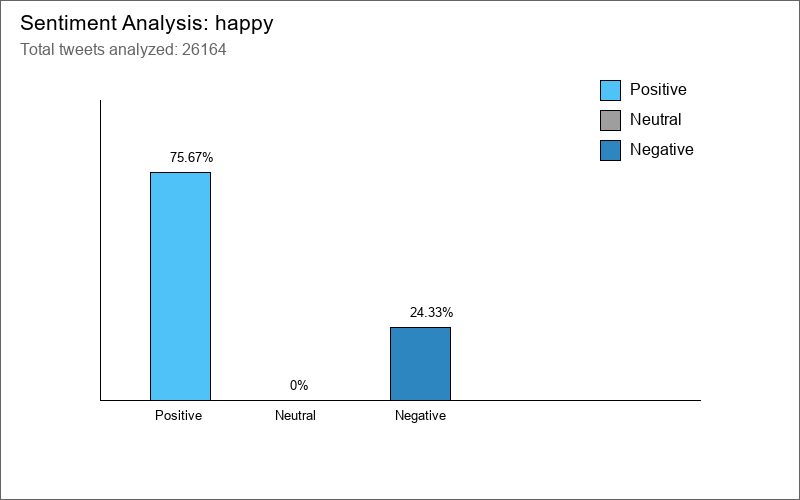
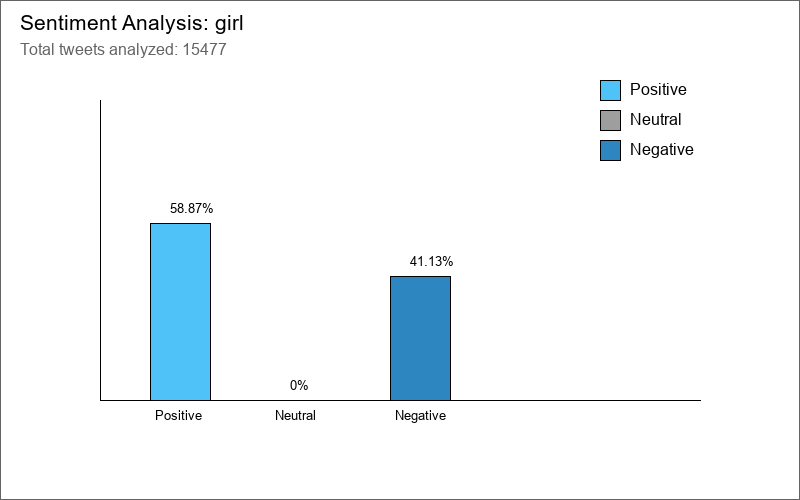
Initial commit: Application d'analyse de sentiments Twitter
- Interface Python Tkinter
- Site PHP de visualisation
- Génération de graphiques
- Système de feedback
- Traduction automatique
- Export PDF des résultats

Changed region(s): [[0.4688, 0.51, 0.5625, 0.66], [0.1875, 0.3, 0.2812, 0.45], [0.2188, 0.03, 0.3438, 0.12]]

diff --git a/site_php/generate_graph.php b/site_php/generate_graph.php
@@ -1,18 +1,18 @@
 <?php
 function generateGraph($type, $data) {
     // Chemin de sortie
-   $outputDir = __DIR__ . '/graphe/';
+    $outputDir = __DIR__ . '/../graphe/';
 
-   // Crée le dossier s'il n'existe pas (avec droits d'écriture)
+    // Crée le dossier s'il n'existe pas (avec droits d'écriture)
     if (!is_dir($outputDir)) {
-     mkdir($outputDir, 0755, true); // 0755 pour éviter les problèmes de sécurité
+        mkdir($outputDir, 0755, true);
     }
 
     $outputFile = $outputDir . "graphe_" . $type . ".png";
     
     // Dimensions
     $width = 800;
-    $height =500;
+    $height = 500;
     
     // Création de l'image
     $image = imagecreatetruecolor($width, $height);
@@ -72,13 +72,13 @@ function generateGraph($type, $data) {
                 imageline($image, 100, $baseY, 700, $baseY, $black); // Axe X
                 imageline($image, 100, $baseY, 100, 100, $black);    // Axe Y
                 
-                // Barres
+                // Barres - CORRECTION : conversion en entiers
                 foreach (array_values($values) as $index => $value) {
                     $barHeight = ($value / 100) * $maxHeight;
-                    $x1 = $startX + ($index * 120); // Espacement réduit entre barres
-                    $y1 = $baseY - $barHeight;
-                    $x2 = $x1 + $barWidth;
-                    $y2 = $baseY;
+                    $x1 = (int)($startX + ($index * 120)); // Espacement réduit entre barres
+                    $y1 = (int)($baseY - $barHeight);      // CONVERSION EN ENTIER
+                    $x2 = (int)($x1 + $barWidth);
+                    $y2 = (int)$baseY;                     // CONVERSION EN ENTIER
                     
                     // Barre simple sans effet d'ombre
                     imagefilledrectangle($image, $x1, $y1, $x2, $y2, $barColors[$index]);
@@ -88,12 +88,15 @@ function generateGraph($type, $data) {
                     if (function_exists('imagettftext')) {
                         // Valeur au-dessus de la barre
                         $text = $value.'%';
-                        $textX = $x1 + ($barWidth/2) - 10;
-                        imagettftext($image, 10, 0, $textX, $y1 - 10, $black, $font, $text);
+                        $textX = (int)($x1 + ($barWidth/2) - 10); // CONVERSION EN ENTIER
+                        $textY = (int)($y1 - 10);                 // CONVERSION EN ENTIER
+                        imagettftext($image, 10, 0, $textX, $textY, $black, $font, $text);
                         
                         // Label en dessous
                         $label = ['Positive', 'Neutral', 'Negative'][$index];
-                        imagettftext($image, 10, 0, $x1 + 5, $baseY + 20, $black, $font, $label);
+                        $labelX = (int)($x1 + 5);                 // CONVERSION EN ENTIER
+                        $labelY = (int)($baseY + 20);             // CONVERSION EN ENTIER
+                        imagettftext($image, 10, 0, $labelX, $labelY, $black, $font, $label);
                     }
                 }
                 break;
@@ -101,8 +104,8 @@ function generateGraph($type, $data) {
             case 'pie':
             case 'ring':
                 // Camembert ou Anneau avec vos couleurs
-                $centerX = $width / 2;
-                $centerY = $height / 2;
+                $centerX = (int)($width / 2);
+                $centerY = (int)($height / 2);
                 $radius = 150;
                 $innerRadius = ($type === 'ring') ? 80 : 0;
                 $total = array_sum($values);
@@ -116,7 +119,7 @@ function generateGraph($type, $data) {
                     
                     // Section principale
                     imagefilledarc($image, $centerX, $centerY, $radius*2, $radius*2, 
-                                  $startAngle, $endAngle, $colors[$key], IMG_ARC_PIE);
+                                  (int)$startAngle, (int)$endAngle, $colors[$key], IMG_ARC_PIE);
                     
                     // Pour l'anneau
                     if ($type === 'ring') {
@@ -127,13 +130,14 @@ function generateGraph($type, $data) {
                     // Légende
                     $midAngle = ($startAngle + $endAngle) / 2;
                     $labelRadius = ($radius + $innerRadius) / 2;
-                    $labelX = $centerX + cos(deg2rad($midAngle)) * ($labelRadius + 30);
-                    $labelY = $centerY + sin(deg2rad($midAngle)) * ($labelRadius + 30);
+                    $labelX = (int)($centerX + cos(deg2rad($midAngle)) * ($labelRadius + 30));
+                    $labelY = (int)($centerY + sin(deg2rad($midAngle)) * ($labelRadius + 30));
                     
                     if (function_exists('imagettftext')) {
                         $text = sprintf("%s (%.1f%%)", $labels[$key], $value);
                         $textWidth = imagettfbbox(12, 0, $font, $text);
-                        imagettftext($image, 12, 0, $labelX - ($textWidth[4]/2), $labelY, $black, $font, $text);
+                        $textX = (int)($labelX - ($textWidth[4]/2));
+                        imagettftext($image, 12, 0, $textX, $labelY, $black, $font, $text);
                     }
                     
                     $startAngle = $endAngle;
@@ -159,7 +163,7 @@ function generateGraph($type, $data) {
                 
                 // Graduations
                 for ($i = 0; $i <= 100; $i += 20) {
-                    $y = $baseY - ($i / 100 * $maxHeight);
+                    $y = (int)($baseY - ($i / 100 * $maxHeight));
                     imageline($image, $startX - 5, $y, $startX, $y, $black);
                     if (function_exists('imagettftext')) {
                         imagettftext($image, 10, 0, $startX - 40, $y + 5, $black, $font, $i.'%');
@@ -173,8 +177,8 @@ function generateGraph($type, $data) {
                 
                 $points = [];
                 foreach ($pointValues as $index => $value) {
-                    $x = $startX + ($index * $step);
-                    $y = $baseY - ($value / 100 * $maxHeight);
+                    $x = (int)($startX + ($index * $step));
+                    $y = (int)($baseY - ($value / 100 * $maxHeight));
                     $points[] = ['x' => $x, 'y' => $y, 'value' => $value, 'color' => array_values($colors)[$index]];
                 }
                 
@@ -252,3 +256,4 @@ function generateGraph($type, $data) {
         return false;
     }
 }
+?>

diff --git a/site_php/twitter_feedback_feature.php b/site_php/twitter_feedback_feature.php
@@ -7,8 +7,8 @@ if (!class_exists('Mpdf\Mpdf')) {
 }
 
 // Chemins unifiés
-$json_file = "C:/Users/SOUMI/OneDrive/Bureau/xamp/htdocs/AppTweet/resultats_recherche.json";
-$image_file = "C:/Users/SOUMI/OneDrive/Bureau/xamp/htdocs/AppTweet/graphe_resulta.png";
+$json_file = "C:/wamp64/www/AppTweet/resultats_recherche.json";
+$image_file = "C:/wamp64/www/AppTweet/graphe/graphe_resulta.png";
 
 // Définir la page active
 $page = isset($_GET['page']) ? $_GET['page'] : 'accueil';
@@ -16,14 +16,14 @@ $page = isset($_GET['page']) ? $_GET['page'] : 'accueil';
 // Type de graphique par défaut et traitement du changement de type
 // Correction 1 : Chemin par défaut cohérent avec le type par défaut
 $graph_type = isset($_GET['graph_type']) ? $_GET['graph_type'] : 'bar';
-$image_file = "C:/Users/SOUMI/OneDrive/Bureau/xamp/htdocs/AppTweet/graphe_".$graph_type.".png";
+$image_file = "C:/wamp64/www/AppTweet/graphe/graphe_".$graph_type.".png";
 
 // Correction 2 : Charger les données AVANT de générer le graphique
 $data = file_exists($json_file) ? json_decode(file_get_contents($json_file), true) : null;
 
 // Correction 3 : Générer le graphique si les données existent
 if ($data !== null) {
-    require_once 'C:/Users/SOUMI/OneDrive/Bureau/xamp/htdocs/AppTweet/site_php/generate_graph.php';
+    require_once 'C:/wamp64/www/AppTweet/site_php/generate_graph.php';
     generateGraph($graph_type, $data);
 }
 // Traitement de soumission du feedback
@@ -35,7 +35,7 @@ if (isset($_POST['submit_feedback'])) {
     $feedback_rating = (int)($_POST['feedback_rating'] ?? '0');
     
     // Chemin du fichier pour stocker les feedbacks
-    $feedback_file = "C:/Users/SOUMI/OneDrive/Bureau/xamp/htdocs/AppTweet/feedbacks.json";
+    $feedback_file = "C:/wamp64/www/AppTweet/feedbacks.json";
     
     // Création d'un nouvel élément de feedback
     $new_feedback = [
@@ -697,11 +697,14 @@ $data = file_exists($json_file) ? json_decode(file_get_contents($json_file), tru
 
     <div class="navbar">
         <div class="navbar-container">
+             <!-- Bouton de retour vers l'interface Python 
+                <button onclick="launchPythonApp()" class="pdf-button" title="Retour à l'application">
+                  <i class="fas fa-arrow-left"></i>
+                </button> -->           
             <!-- Logo Twitter à gauche -->
             <div class="twitter-logo">
                 <i class="fab fa-twitter" style="color: white;"></i>
-            </div>
-            
+            </div>            
             <div class="nav-buttons">
                 <!-- Bouton de feedback avec l'icône de l'oiseau Twitter -->
                 <div class="feedback-menu-container">
@@ -916,14 +919,14 @@ document.addEventListener('DOMContentLoaded', function() {
     option.addEventListener('click', function() {
         // CONSERVEZ cette ligne qui ferme le menu
         graphMenu.classList.remove('show');
-        
+        const url = this.href;
         // AJOUTEZ cette ligne pour forcer le rechargement
         window.location.href = this.href;
     });
     });
 });
 <?php 
-$feedbacks = json_decode(file_get_contents('C:/Users/SOUMI/OneDrive/Bureau/xamp/htdocs/AppTweet/feedbacks.json'), true);
+$feedbacks = json_decode(file_get_contents('C:/wamp64/www/AppTweet/feedbacks.json'), true);
 $lastFeedback = end($feedbacks);
 ?>
 </script>
@@ -931,7 +934,7 @@ $lastFeedback = end($feedbacks);
 <script>
     // Vérifiez que le fichier feedbacks.json existe et est lisible
     <?php
-    $feedback_file = 'C:/Users/SOUMI/OneDrive/Bureau/xamp/htdocs/AppTweet/feedbacks.json';
+    $feedback_file = 'C:/wamp64/www/AppTweet/feedbacks.json';
     $feedbacks = file_exists($feedback_file) ? json_decode(file_get_contents($feedback_file), true) : [];
     $lastFeedback = !empty($feedbacks) ? end($feedbacks) : null;
     ?>
@@ -968,6 +971,25 @@ $lastFeedback = end($feedbacks);
     <?php else: ?>
         console.warn("Aucun feedback trouvé");
     <?php endif; ?>
+</script>
+
+<script>
+function launchPythonApp() {
+    if(confirm('Retourner à l\'application principale ?')) {
+        // Télécharger et exécuter le batch via PHP
+        fetch('launch_python.php')
+            .then(response => response.text())
+            .then(data => {
+                alert('Application relancée ! Vous pouvez fermer cet onglet.');
+                // Optionnel : fermer l'onglet après confirmation
+                // window.close();
+            })
+            .catch(error => {
+                console.error('Erreur:', error);
+                alert('L\'application va se rouvrir');
+            });
+    }
+}
 </script>
 </body>
 </html>

diff --git a/tkinter_page/InterfaceProj.py b/tkinter_page/InterfaceProj.py
@@ -18,7 +18,7 @@ import sys
 
 # Chargement des deux fichiers CSV
 df_sentiment140 = pd.read_csv(
-    r'C:\Users\SOUMI\OneDrive\Bureau\xamp\htdocs\AppTweet\data\sentiment140_preprocessed.csv',
+    r'C:\wamp64\www\AppTweet\data\sentiment140_preprocessed.csv',
     skiprows=1,
     names=["sentiment", "text", "cleaned_text"],
     dtype={0: int},
@@ -26,8 +26,9 @@ df_sentiment140 = pd.read_csv(
 )
 
 df_neutre = pd.read_csv(
-      r'C:\Users\SOUMI\OneDrive\Bureau\xamp\htdocs\AppTweet\data\tweets_neutral1.csv',
-      names=["sentiment", "text", "cleaned_text"],skiprows=1)
+      r'C:\wamp64\www\AppTweet\data\tweets_neutral1.csv',
+      names=["sentiment", "text", "cleaned_text"],skiprows=1
+      )
 
 # Initialiser le traducteur
 
@@ -63,6 +64,8 @@ def detect_and_translate(user_input):
     try:
         # D'abord essayer de traduire la phrase complète
         try:
+
+            
             full_translation = GoogleTranslator(source='auto', target='en').translate(text)
             if full_translation and full_translation.lower() != text.lower():
                 return full_translation.lower()
@@ -589,7 +592,7 @@ def on_focusout(event):
             mot.insert(0, placeholder_texts[current_lang])
             mot.config(fg='grey')
 
-image = Image.open("C:\\Users\\SOUMI\\OneDrive\\Bureau\\xamp\\htdocs\\AppTweet\\images\\img.png")
+image = Image.open("C:\\wamp64\\www\\AppTweet\\images\\img.png")
 blurred_image = image.filter(ImageFilter.GaussianBlur(radius=3))
 photo = ImageTk.PhotoImage(blurred_image)
 label = Label(fen, image=photo)
@@ -682,7 +685,7 @@ keyboard_button.config(command=show_keyboard_menu_direct)
 
 
 texte_id = canvas.create_text(10, y_pos, text="", font=("Comic Sans MS", 18, "bold"), fill="Black", anchor=NW)
-img = Image.open("C:\\Users\\SOUMI\\OneDrive\\Bureau\\xamp\\htdocs\\AppTweet\\images\\111.jfif").resize((60, 60), Image.LANCZOS)
+img = Image.open("C:\\wamp64\\www\\AppTweet\\images\\111.jfif").resize((60, 60), Image.LANCZOS)
 oiseau_img = ImageTk.PhotoImage(img)
 oiseau_id = canvas.create_image(x_pos, y_pos, image=oiseau_img, anchor=NW)
 mot.bind("<FocusIn>", on_entry_click)  # Appeler on_entry_click lors du focus

diff --git a/launch_interface.php b/launch_interface.php
@@ -1,0 +1,55 @@
+<?php
+// launch_interface.php
+header('Content-Type: text/html; charset=utf-8');
+
+$python_script = "C:/wamp64/www/AppTweet/InterfaceProj.py";
+
+echo "<h3>🔍 Recherche de Python...</h3>";
+
+// Test direct avec where (commande Windows)
+echo "<p>Test de la commande 'where python' : ";
+$where_result = shell_exec('where python 2>&1');
+echo htmlspecialchars($where_result ?: "Non trouvé") . "</p>";
+
+// Test avec python --version
+echo "<p>Test de 'python --version' : ";
+$version_result = shell_exec('python --version 2>&1');
+echo htmlspecialchars($version_result ?: "Échec") . "</p>";
+
+// Essayer avec le chemin complet le plus courant
+echo "<p>Tentative avec chemin complet : ";
+$python_exe = "C:/Users/" . get_current_user() . "/AppData/Local/Microsoft/WindowsApps/python.exe";
+if (file_exists($python_exe)) {
+    $test = shell_exec('"' . $python_exe . '" --version 2>&1');
+    echo htmlspecialchars($test ?: "Échec") . "</p>";
+} else {
+    echo "Fichier non trouvé : $python_exe</p>";
+}
+
+echo "<h3>🚀 Lancement de l'application...</h3>";
+
+// Méthode la plus fiable : créer un shortcut
+$shortcut_content = '[InternetShortcut]
+URL=file:///C:/wamp64/www/AppTweet/InterfaceProj.py
+IconIndex=0';
+
+$shortcut_file = "C:/wamp64/www/AppTweet/launch_app.url";
+if (file_put_contents($shortcut_file, $shortcut_content)) {
+    echo "<p>✓ Shortcut créé : <a href='launch_app.url' target='_blank'>Cliquez ici pour lancer l'application</a></p>";
+}
+
+echo "<p><strong>Instructions :</strong></p>";
+echo "<ol>";
+echo "<li><a href='launch_app.url' target='_blank'>Cliquez sur ce lien</a> et choisissez 'Ouvrir avec Python'</li>";
+echo "<li>OU retournez dans le dossier et double-cliquez sur InterfaceProj.py</li>";
+echo "<li>OU ouvrez un terminal dans C:\\wamp64\\www\\AppTweet\\ et tapez : python InterfaceProj.py</li>";
+echo "</ol>";
+
+echo "<script>
+setTimeout(() => {
+    if(confirm('Fermer cet onglet et lancer l\\'application manuellement ?')) {
+        window.close();
+    }
+}, 3000);
+</script>";
+?>
